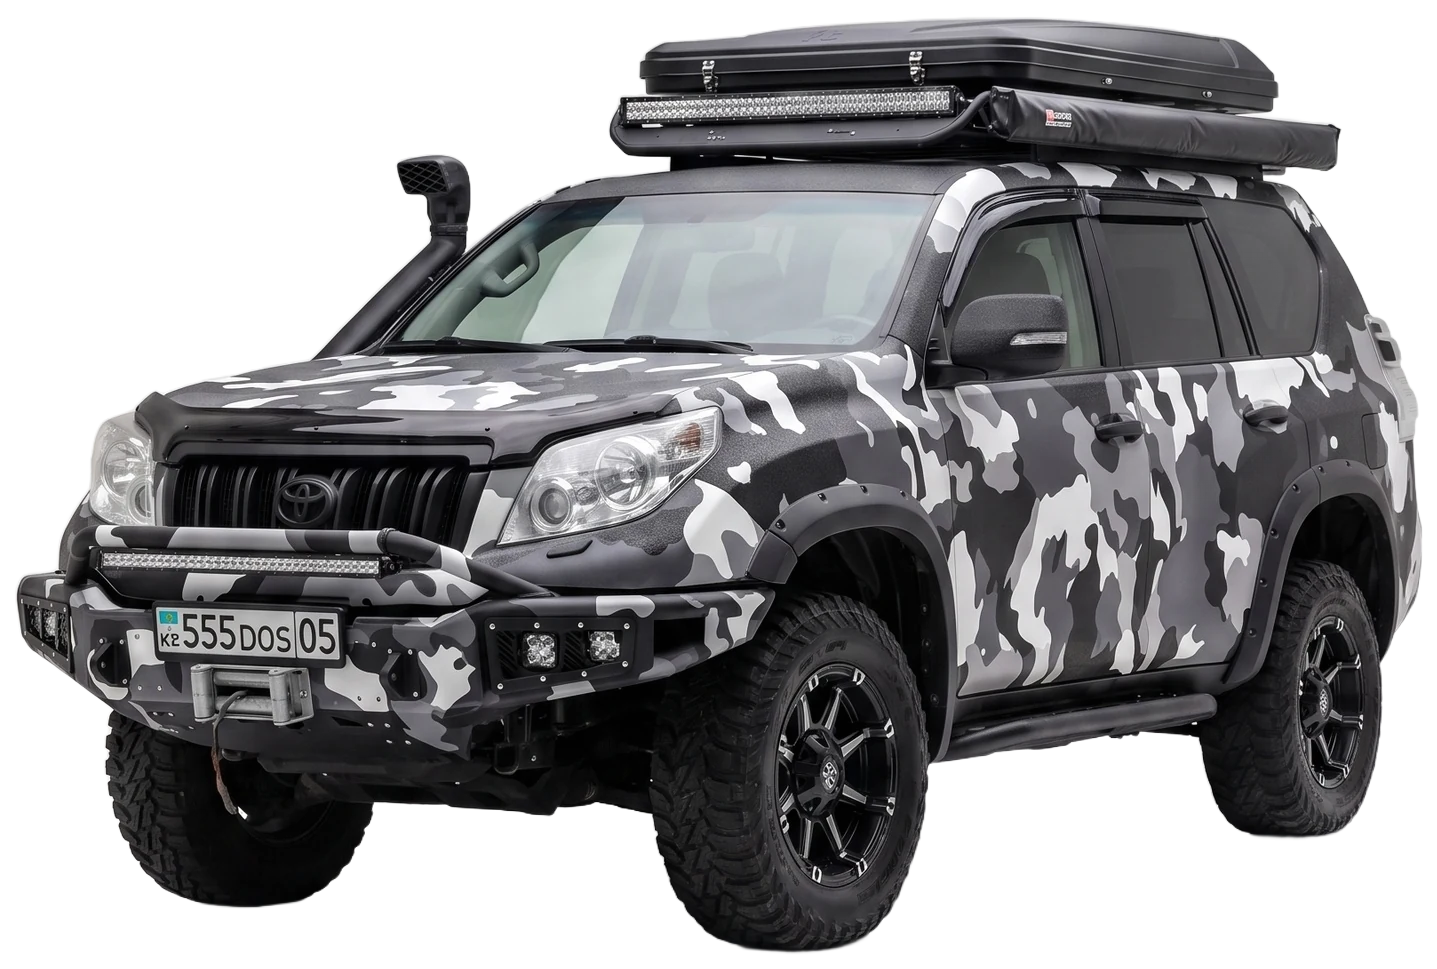
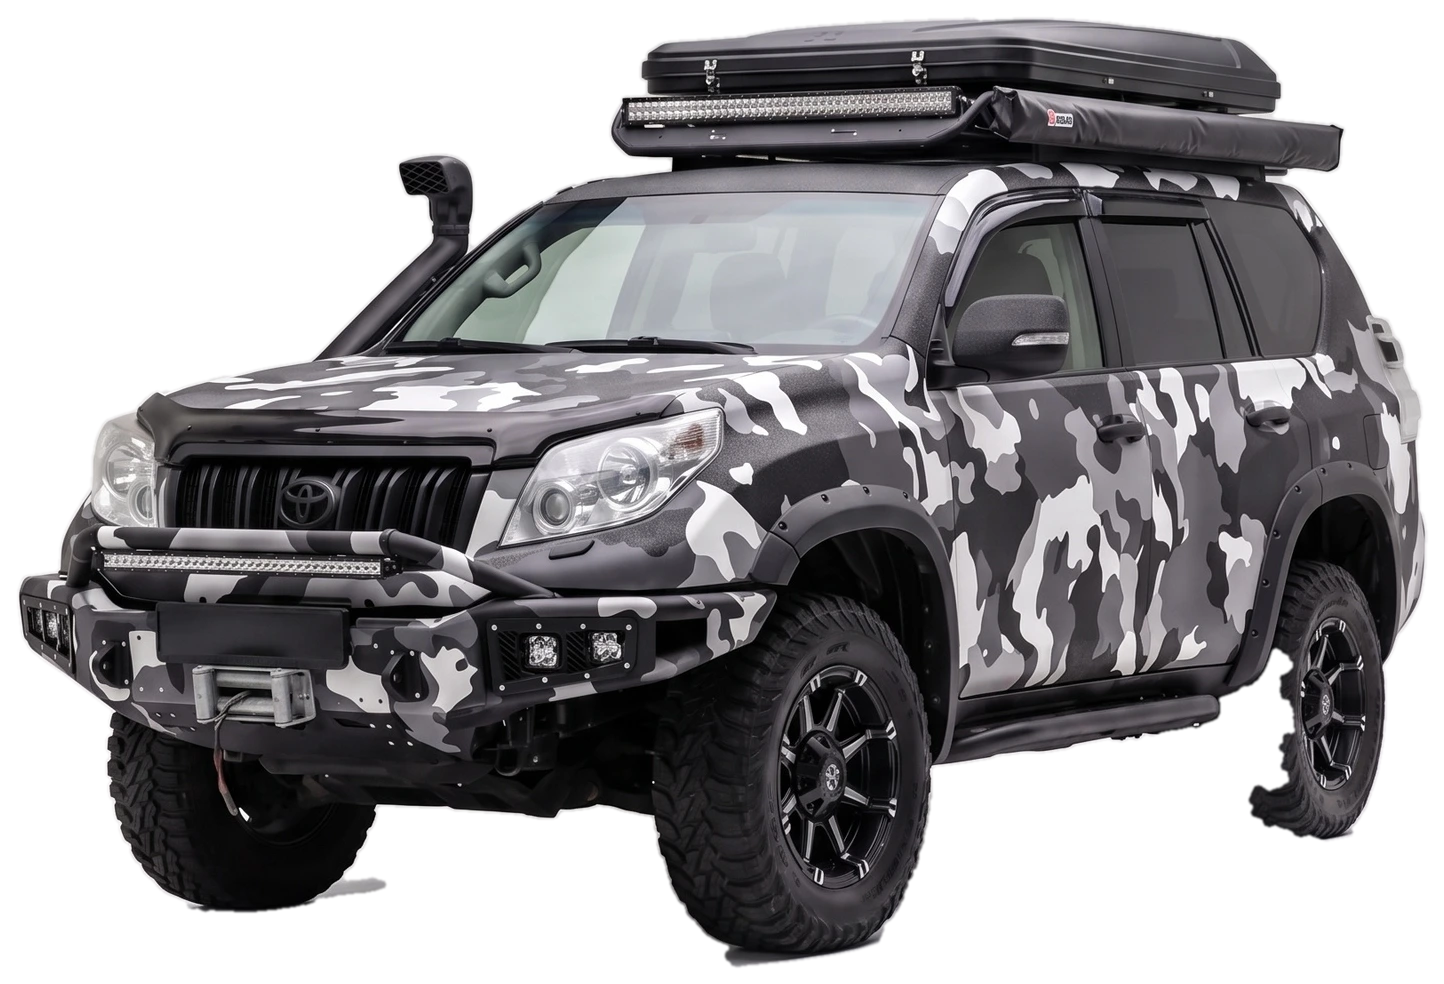
обн

diff --git a/assets/app.js b/assets/app.js
@@ -30,26 +30,28 @@ var WORKS=["work-01.jpg","work-02.jpg","work-03.jpg","work-04.jpg","work-05.jpg"
  "work-19.jpg","work-20.jpg","work-21.jpg"];
 
 // ---- интерактивный автомобиль: точки на фото + чеклист в форме заявки ----
-// Цены — реальные, присланы клиентом 2026-09-07 (для позиций без x/y — "лагерный
-// свет", "обвес", "расширители арок" — точки на фото ещё не расставлены, они
-// доступны только в чеклисте формы). "Силовые пороги" клиент в этом прайсе не
-// упоминал — цена оставлена старой демо-плашкой, уточнить и обновить отдельно.
+// Фото обновлено 2026-09-08 (студийный кадр клиента, замена демо-фото).
+// Цены — реальные, присланы клиентом 2026-09-07/08. "Силовые пороги" клиент в
+// этом прайсе не упоминал — цена оставлена старой демо-плашкой, уточнить и
+// обновить отдельно. Для "лагерный свет" на этом фото нет отдельного узнаваемого
+// элемента — точка на фото не расставлена, доступен только в чеклисте формы.
 // x/y — позиция маркера на изображении assets/img/interactive-car.webp в процентах
-// (координаты подобраны под это фото — часть комплекта видна на одной машине).
+// (координаты подобраны под текущее фото).
 var EQUIPMENT=[
- {id:"snorkel",label:"Шноркель",price:"от 250 000 ₸",x:29,y:18},
- {id:"rack",label:"Экспедиционный багажник",price:"от 235 000 ₸",x:44,y:16.5},
- {id:"tent",label:"Палатка на крышу",price:"от 780 000 ₸",x:65,y:6.5},
- {id:"light",label:"Дополнительное освещение",price:"от 187 000 ₸",x:53,y:11},
+ {id:"snorkel",label:"Шноркель",price:"от 250 000 ₸",x:28,y:19},
+ {id:"rack",label:"Экспедиционный багажник",price:"от 235 000 ₸",x:77,y:17},
+ {id:"tent",label:"Палатка на крышу",price:"от 780 000 ₸",x:67,y:6},
+ {id:"light",label:"Дополнительное освещение",price:"от 187 000 ₸",x:48,y:12},
  {id:"camplight",label:"Лагерный свет (1 шт.)",price:"от 31 500 ₸"},
- {id:"bumper",label:"Усиленный бампер",price:"от 400 000 ₸",x:17,y:70},
- {id:"bodykit",label:"Обвес",price:"от 1 056 000 ₸"},
- {id:"archflares",label:"Расширители арок",price:"от 250 000 ₸"},
- {id:"wheels",label:"Кованые диски (4 шт.)",price:"от 550 000 ₸",x:54,y:81},
- {id:"tires",label:"Грязевая резина",price:"от 140 000 ₸",x:88.5,y:71},
- {id:"steps",label:"Силовые пороги",price:"от 220 000 ₸",x:70,y:72},
- {id:"awning",label:"Маркиза",price:"от 260 000 ₸",x:80,y:13},
- {id:"zpro",label:"Защитное покрытие Z-PRO",price:"от 1 680 000 ₸",x:80,y:46}
+ {id:"winch",label:"Лебёдка",price:"от 285 000 ₸",x:18,y:69},
+ {id:"bumper",label:"Усиленный бампер",price:"от 400 000 ₸",x:33,y:68},
+ {id:"bodykit",label:"Обвес",price:"от 1 056 000 ₸",x:54,y:51},
+ {id:"archflares",label:"Расширители арок",price:"от 250 000 ₸",x:63,y:60},
+ {id:"wheels",label:"Кованые диски (4 шт.)",price:"от 550 000 ₸",x:94,y:70},
+ {id:"tires",label:"Грязевая резина",price:"от 140 000 ₸",x:60,y:75},
+ {id:"steps",label:"Силовые пороги",price:"от 220 000 ₸",x:77,y:73},
+ {id:"awning",label:"Маркиза",price:"от 260 000 ₸",x:94,y:14},
+ {id:"zpro",label:"Защитное покрытие Z-PRO",price:"от 1 680 000 ₸",x:86,y:44}
 ];
 
 function esc(s){return s.replace(/[&<>]/g,function(c){return{'&':'&amp;','<':'&lt;','>':'&gt;'}[c]})}
